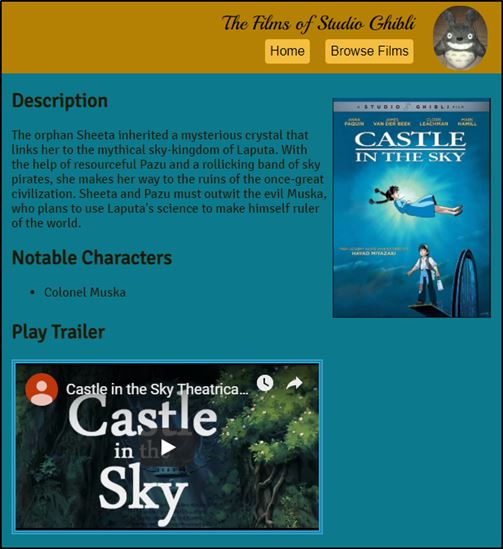
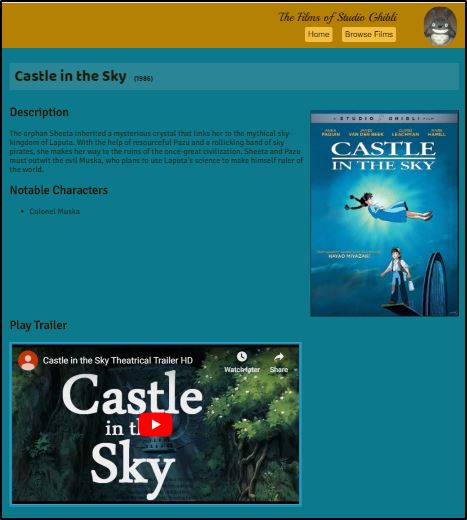
to Details page, added details-title paragraph, revised Details page image for README file

diff --git a/style.css b/style.css
@@ -158,6 +158,22 @@ button.back-to-browse-button {
   max-width: 900px;
 }
 
+.details-title {
+  background-color: #2A8596;
+  font-family: 'Baloo', cursive;
+  font-size: 18px;
+  padding-left: 10px;
+  padding-top: 10px;
+  padding-bottom: 10px;
+  margin-left: 0px;
+  margin-right: 0px;
+}
+
+.details-title-reldate {
+  padding-left: 15px;
+  font-size: 14px;
+}
+
 .details.feature-img {
   float: right;
   width: 33%;
@@ -235,6 +251,10 @@ button.back-to-browse-button {
 
   .card-title {
     font-size: 24px;
+  }
+
+  .details-title {
+    font-size: 30px;
   }
 
   .iframe-container iframe {

diff --git a/index.html b/index.html
@@ -36,9 +36,9 @@
     <main role="main">
       <div class="app-phase browse-cards-page">
       </div>
-
       <div class="app-phase details-view">
-        <div class="details details-float-container">
+        <p class="details-title"></p>
+        <div class="details-float-container">
           <div class="details feature-img"></div>
           <section class="details film-descrip"></section>
           <section class="details cast"></section>

diff --git a/script.js b/script.js
@@ -117,6 +117,7 @@ function renderDetailsView(targetID) {
     let castHtml = '';
     let trailerHtml = '';
 
+    $('.details-title').html(`${filmTitle}`).append(`<span class="details-title-reldate">(${filmRelease})</span>`);
     $('.details.feature-img').html(`<img src="images/${targetID}.jpg" alt="${filmTitle}">`);
     $('.details.film-descrip').html(`<h2>Description</h2>
         <p>${filmDescr}</p>`
